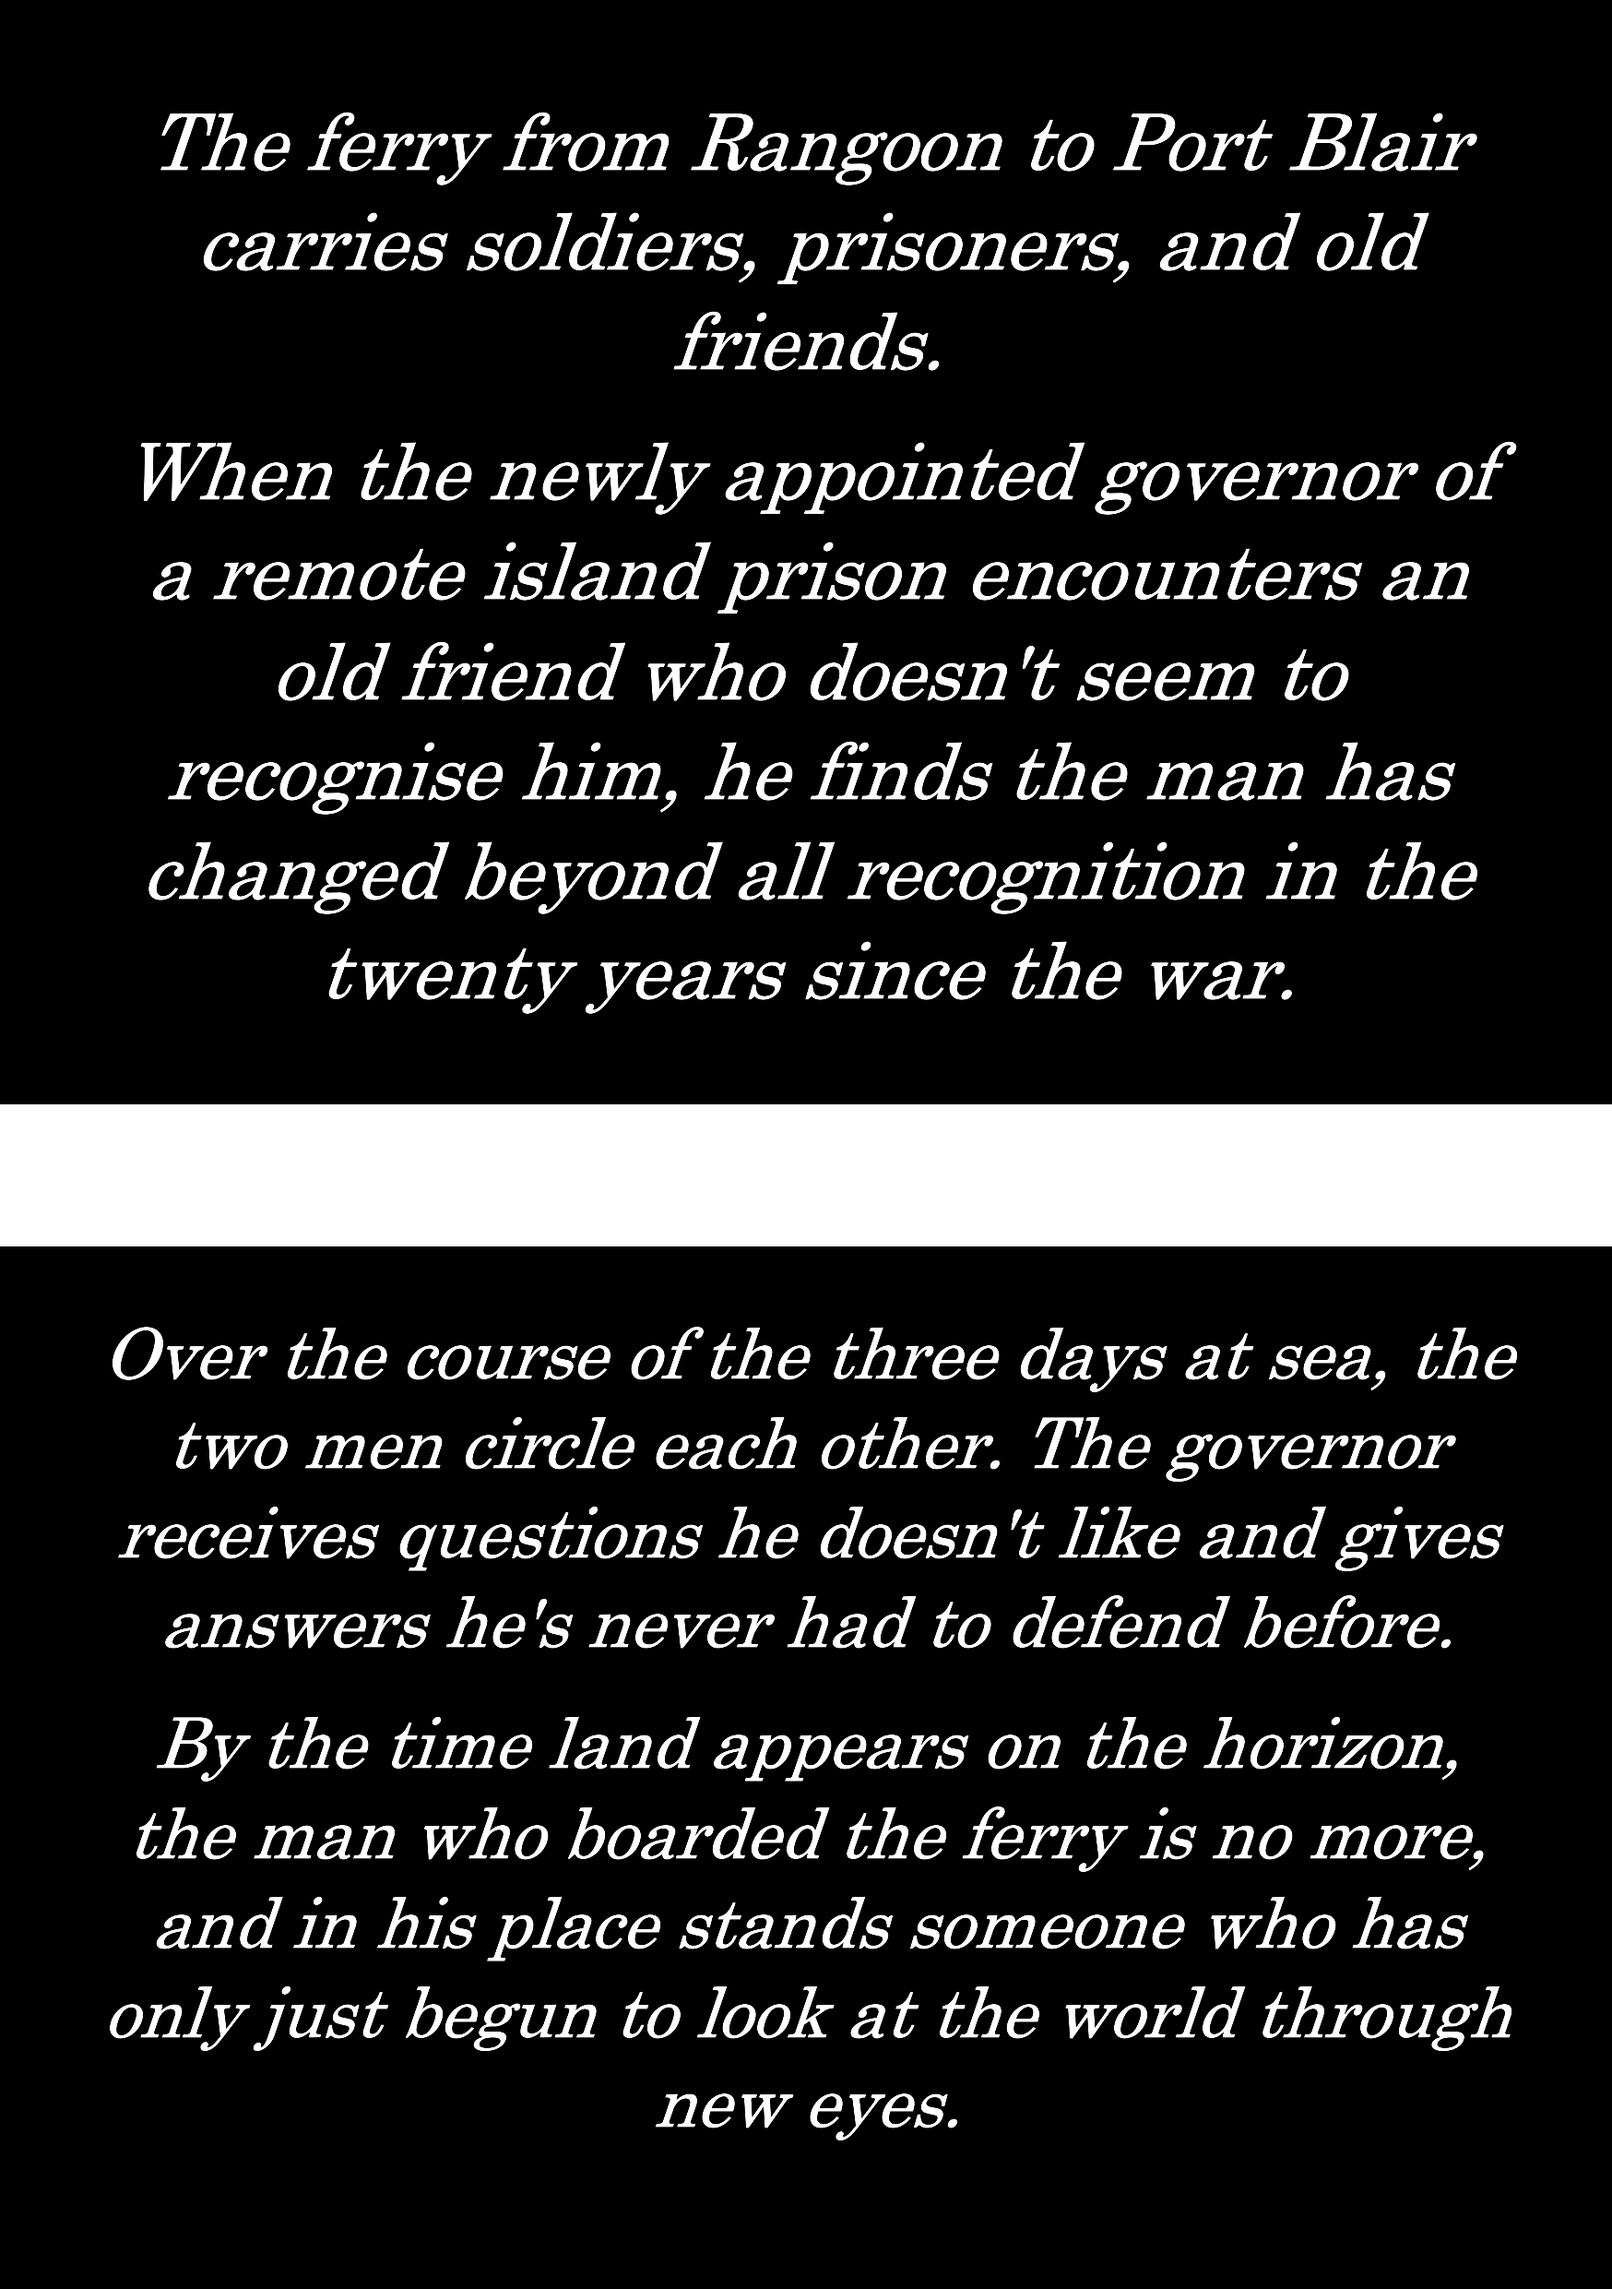
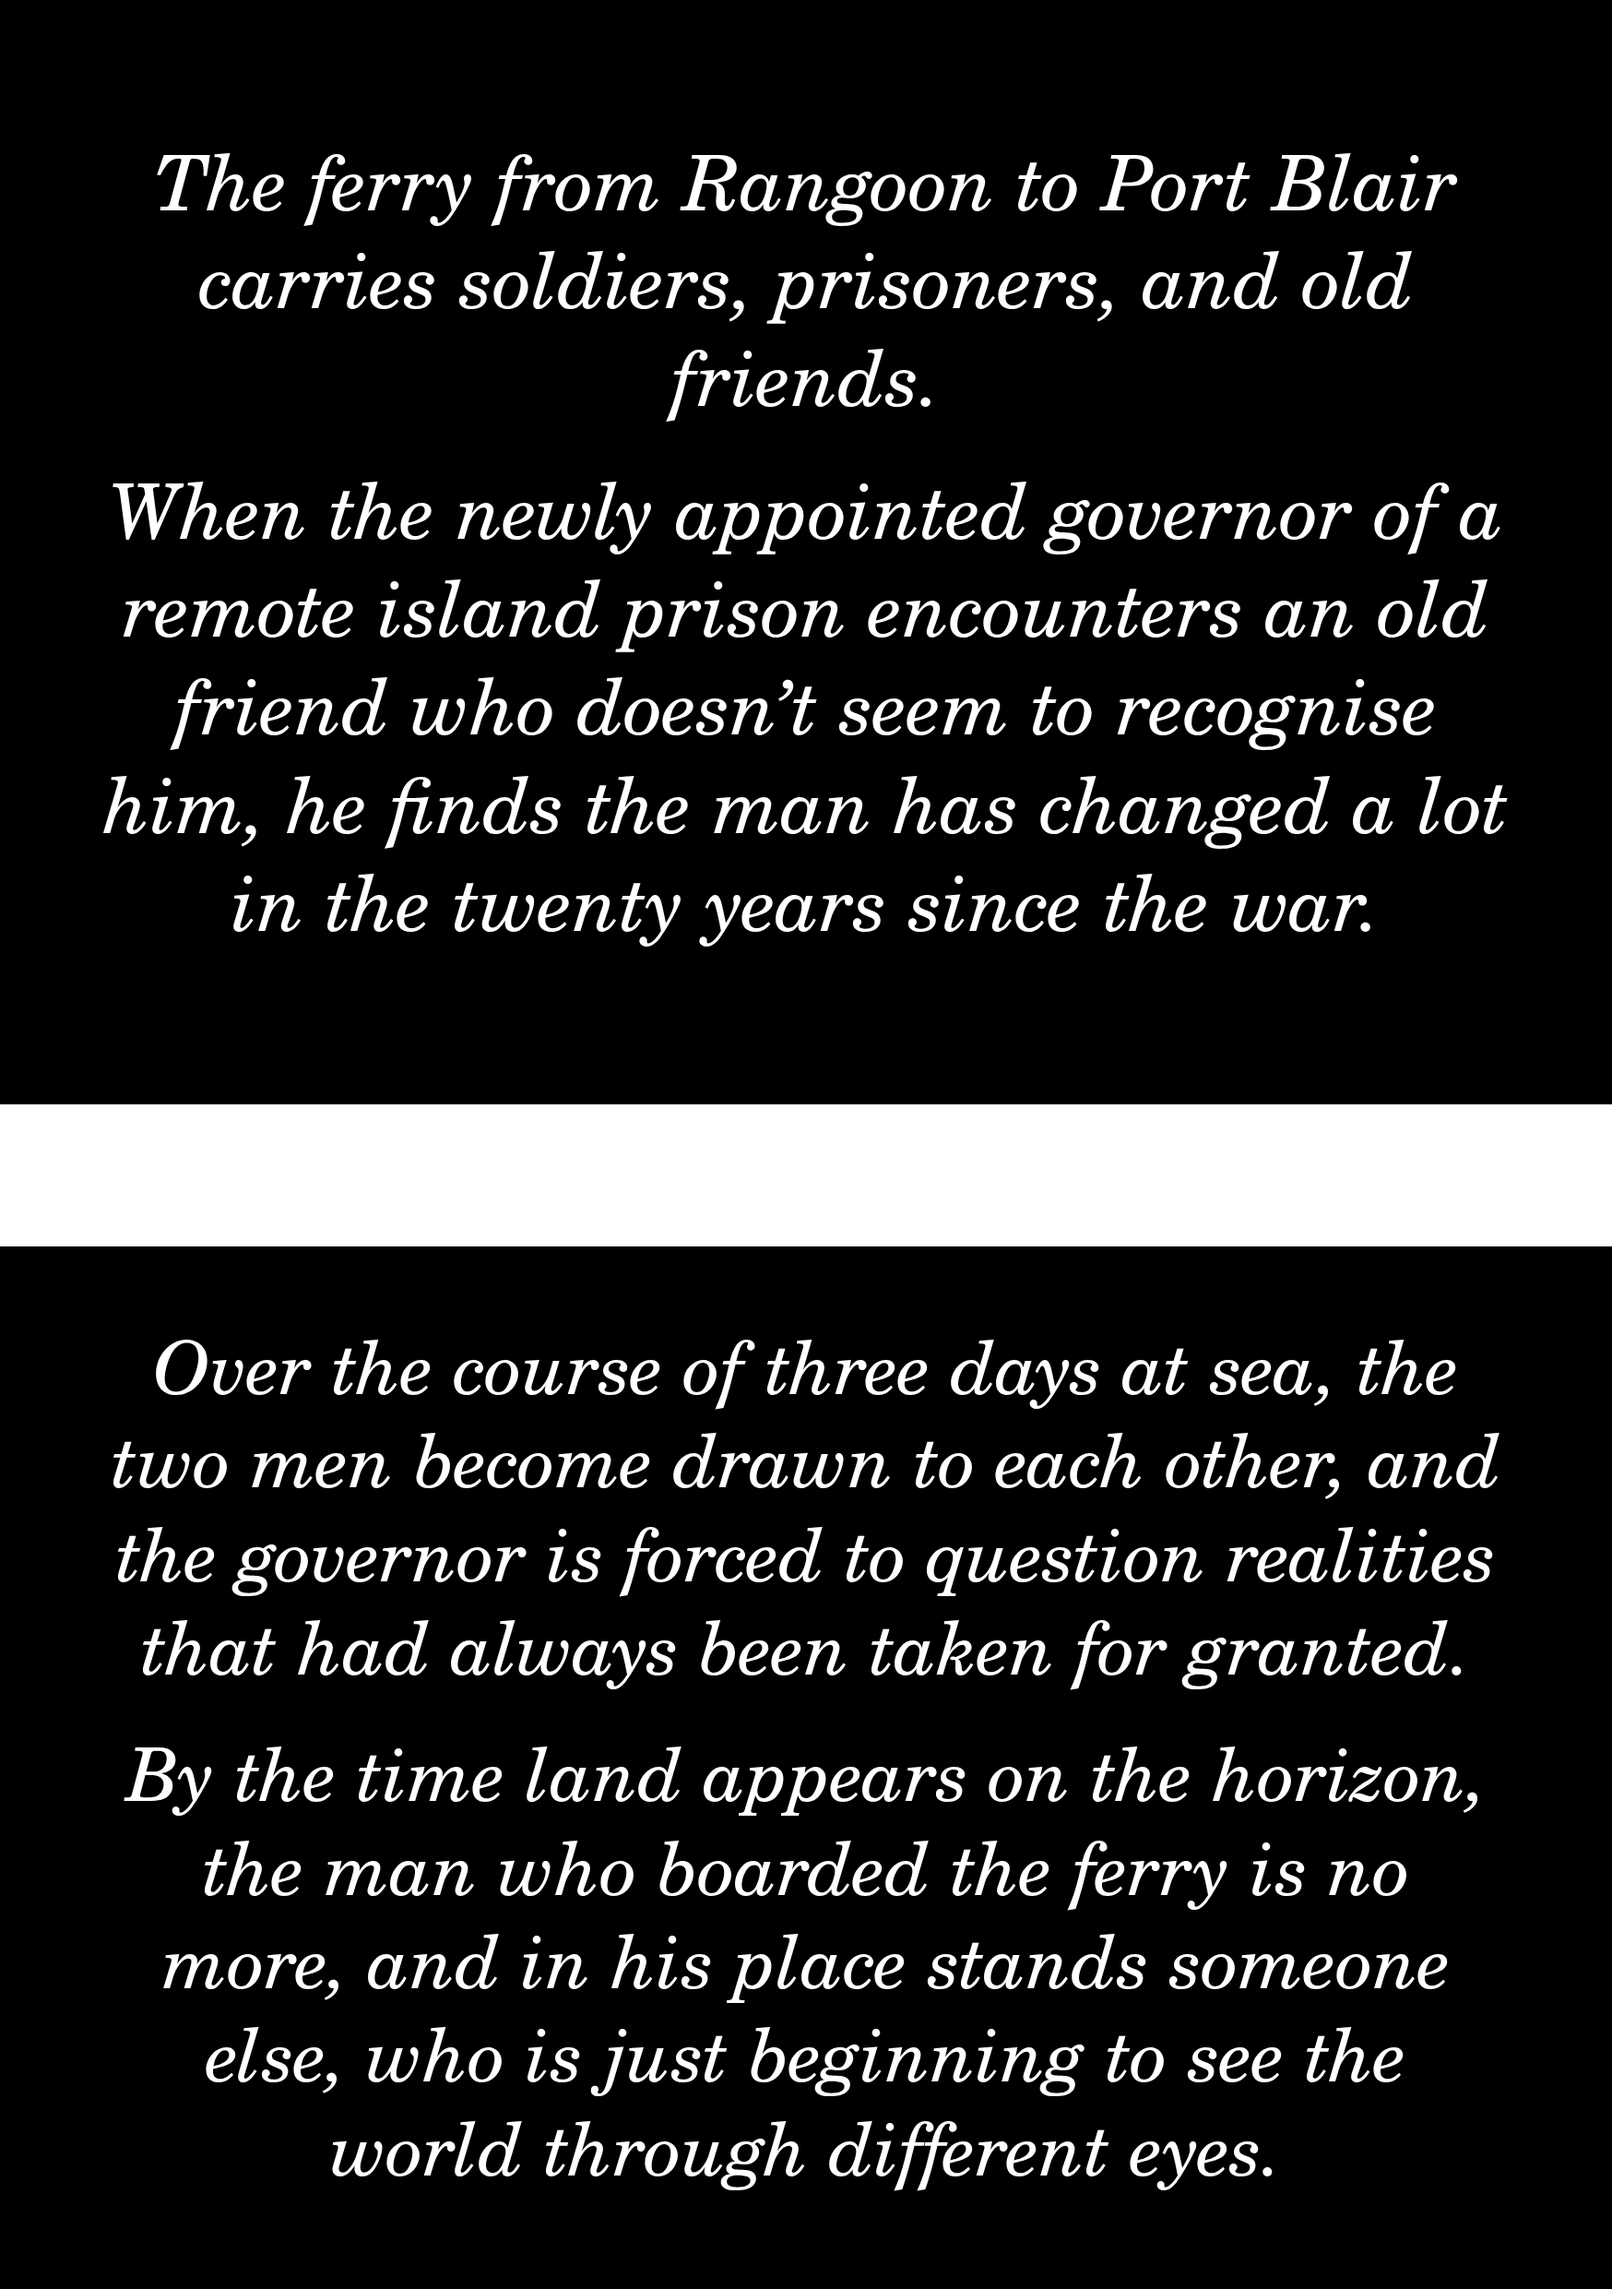
Writings: tap to flip on phones, linked titles, rendered back covers
- Covers flip on hover only where hover exists; tap flips them on touch screens, with a hint
- Book titles link to the full piece
- script/render-back-covers renders back.png from each book's metadata blurb
- Typo fixes in the blurbs and the page intro

Changed region(s): [[0.0618, 0.5586, 0.9577, 0.9621], [0.0618, 0.031, 0.9268, 0.4345]]

diff --git a/writings.html b/writings.html
@@ -105,9 +105,40 @@
             box-shadow: 0 24px 55px rgba(15, 23, 32, 0.22);
         }
 
-        .book-link:hover .book,
-        .book-link:focus-visible .book {
+        @media (hover: hover) {
+            .book-link:hover .book {
+                transform: rotateY(180deg);
+            }
+        }
+
+        .book-link:focus-visible .book,
+        .book.flipped {
             transform: rotateY(180deg);
+        }
+
+        .tap-hint {
+            display: none;
+            margin: 0.7rem 0 0;
+            text-align: center;
+            color: var(--muted);
+            font-size: 0.85rem;
+        }
+
+        @media (hover: none) {
+            .tap-hint {
+                display: block;
+            }
+        }
+
+        .title-link {
+            color: inherit;
+            text-decoration: none;
+        }
+
+        .title-link:hover,
+        .title-link:focus-visible {
+            color: var(--accent);
+            text-decoration: underline;
         }
 
         .book-face {
@@ -203,8 +234,8 @@
         <section class="hero">
             <h1>Writings</h1>
             <p class="subtitle">
-                A small library of my work. Hover over the cover to flip the book and click it to open the full piece.
-                The use of AI in these writings is striclty limited to research purposes to ensure some historical accuracy along with traditional research methods. No AI was used to generate any of the text within the stories, and none of the text was pasted into AI models for editing or rewriting. The story, and its contents are entirely human.
+                A small library of my work. Hover over the cover (or tap it on a phone) to flip the book, and click it or the title to open the full piece.
+                The use of AI in these writings is strictly limited to research purposes to ensure some historical accuracy along with traditional research methods. No AI was used to generate any of the text within the stories, and none of the text was pasted into AI models for editing or rewriting. The story, and its contents are entirely human.
             </p>
         </section>
 
@@ -285,10 +316,11 @@
                                     </div>
                                 </div>
                             </div>
+                            <p class="tap-hint" aria-hidden="true">Tap to flip</p>
                         </a>
 
                         <div>
-                            <h2>${book.title}</h2>
+                            <h2><a class="title-link" href="/writings-book.html?book=${book.slug}">${book.title}</a></h2>
                             <p class="meta">${book.description || book.blurbText}</p>
                             <a class="home-link" href="/">Back to Home</a>
                         </div>
@@ -298,6 +330,14 @@
                 root.innerHTML = "<p class='meta'>The writing library could not be loaded.</p>";
             }
         }
+
+        // Touch screens can't hover: first tap flips the cover, the title link opens the book.
+        document.addEventListener("click", (event) => {
+            const link = event.target.closest(".book-link");
+            if (!link || !window.matchMedia("(hover: none)").matches) return;
+            event.preventDefault();
+            link.querySelector(".book").classList.toggle("flipped");
+        });
 
         loadBooks();
     </script>
